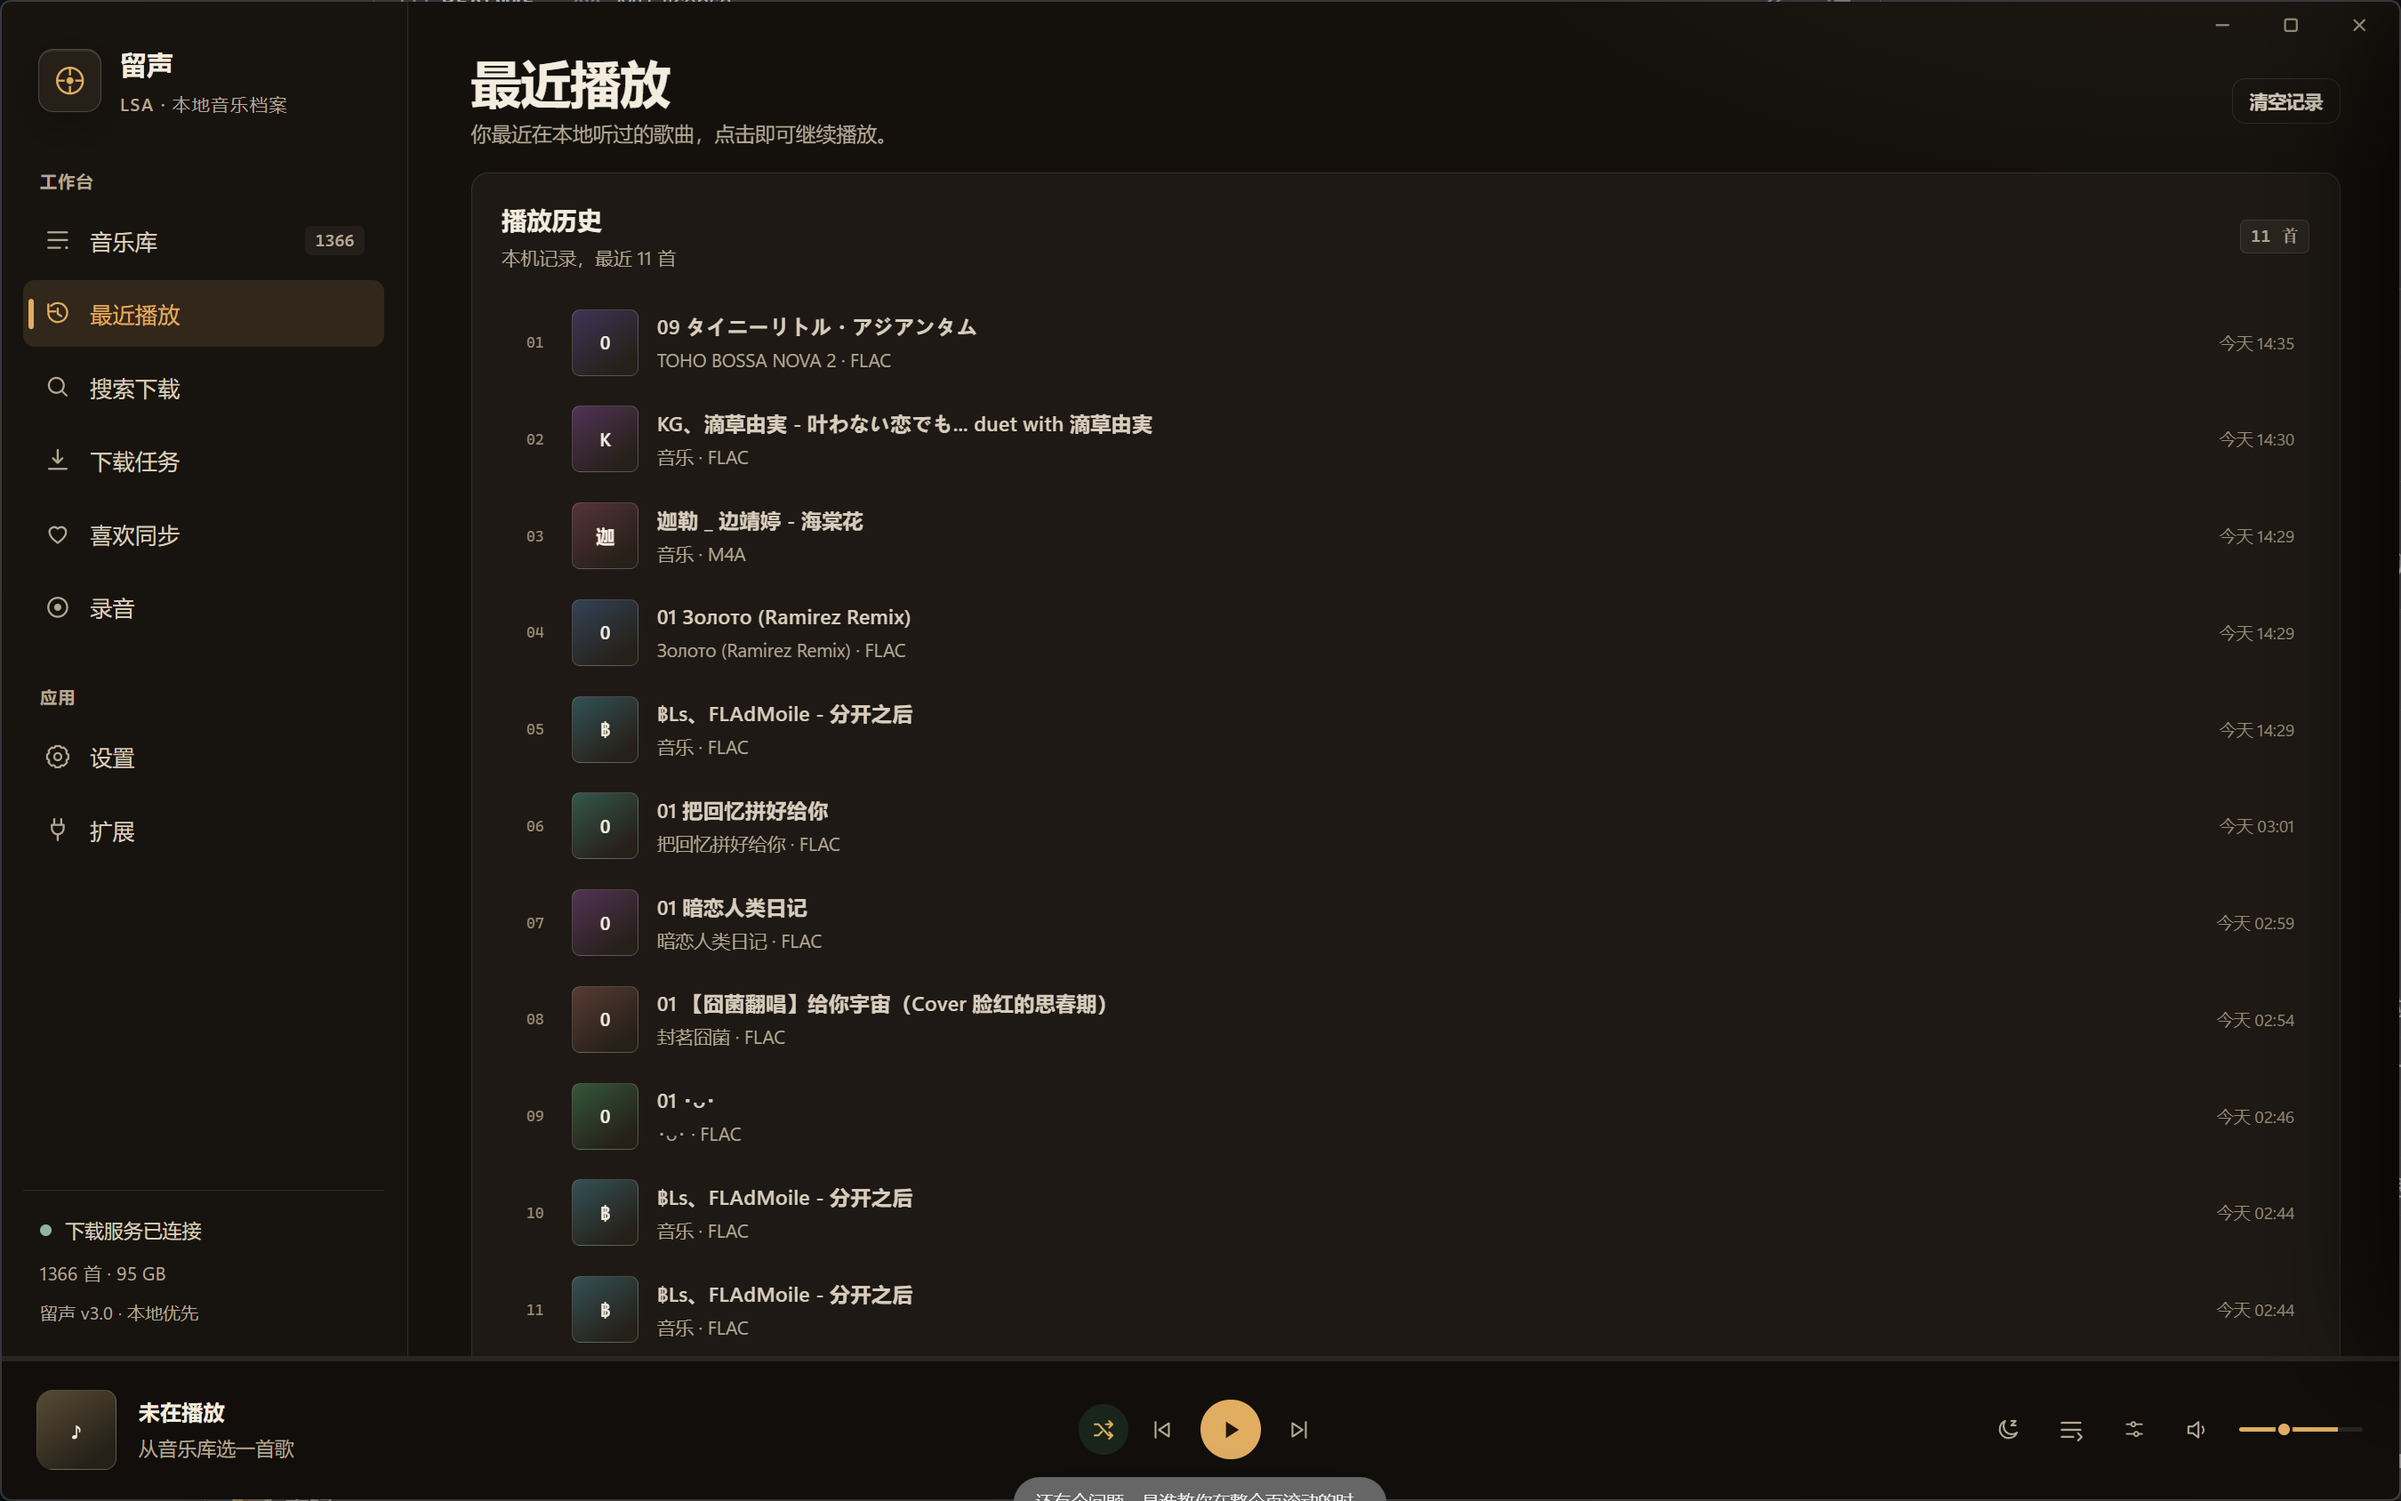
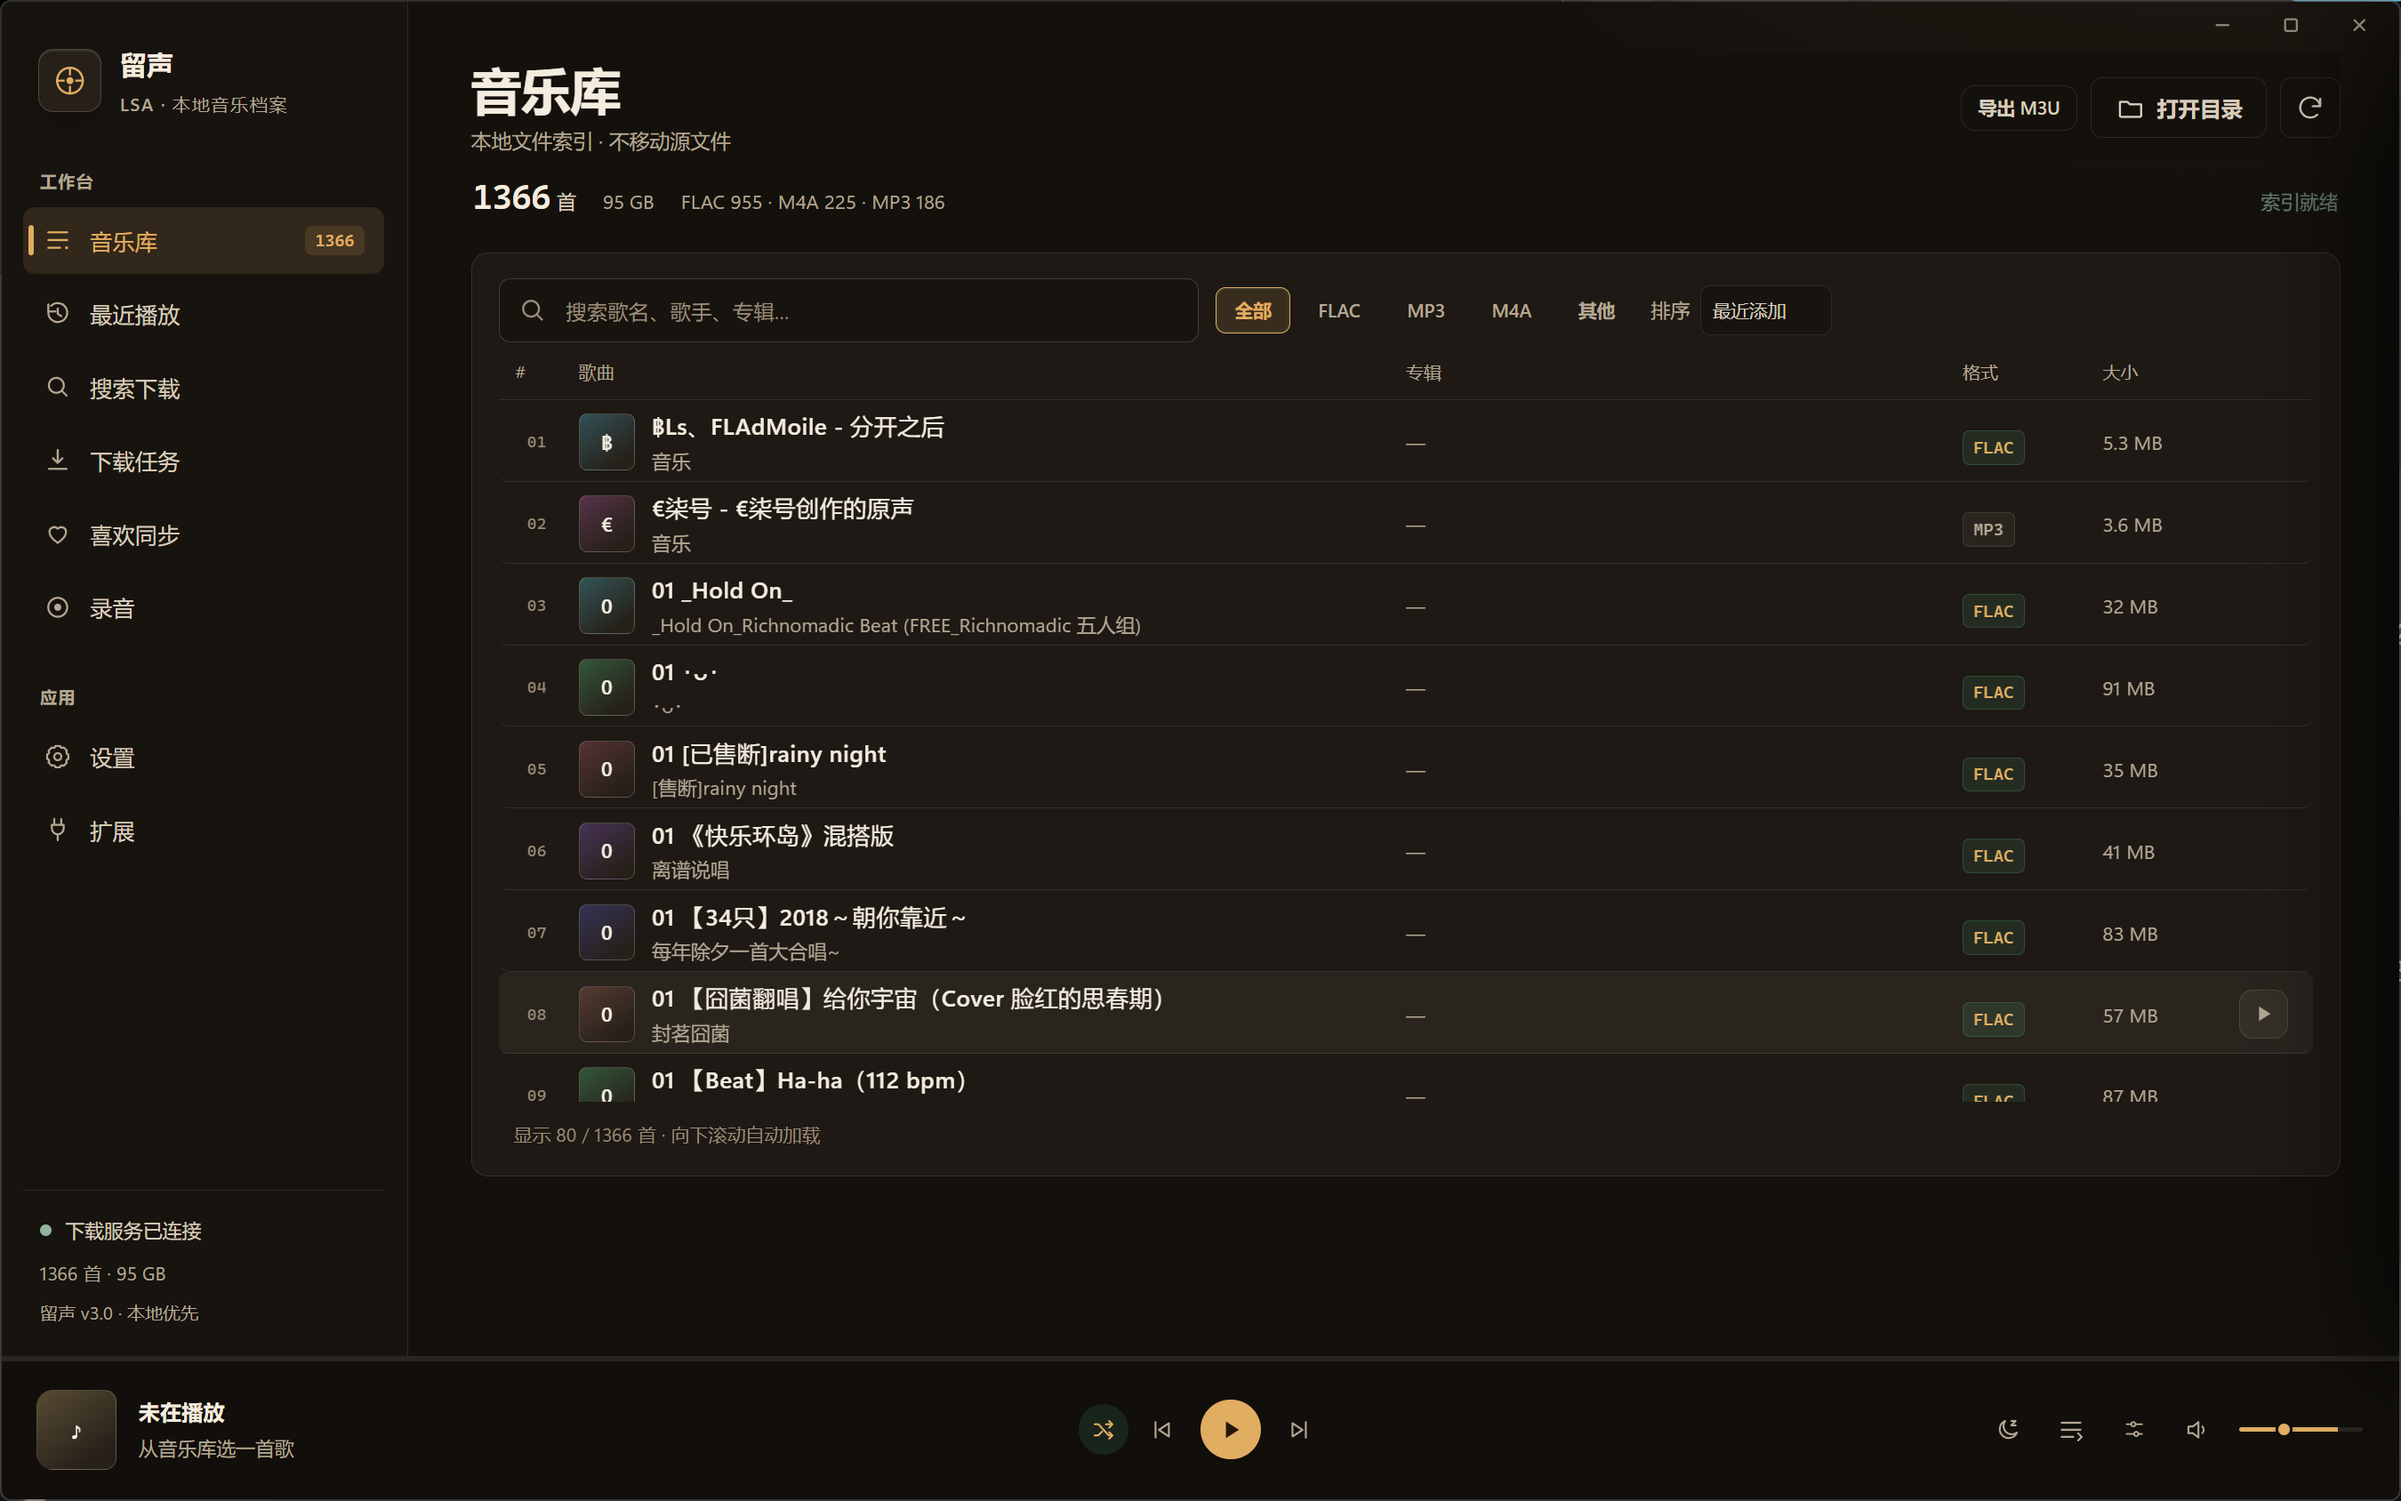
build: electron mac/win artifacts

diff --git a/ui/app.css b/ui/app.css
@@ -1,4 +1,4 @@
-:root {
+:root {
   --bg: #080a0d;
   --bg-2: #0c0f14;
   --surface: #11161d;
@@ -2401,32 +2401,32 @@ summary:focus-visible { outline: 2px solid var(--ui-accent, var(--accent)); outl
 }
 
 /* Scrollbars are transient: no permanent rails in panels, modals or lists. */
-:where(.main, .sidebar, .account-card, .fx-body, .queue-list, .lyrics-list, .search-results, .settings-main) {
+:where(.main, .sidebar, .account-card, .fx-body, .queue-list, .lyrics-list, .lib-list, .search-results, .settings-main) {
   scrollbar-width: none;
 }
-:where(.main, .sidebar, .account-card, .fx-body, .queue-list, .lyrics-list, .search-results, .settings-main)::-webkit-scrollbar {
+:where(.main, .sidebar, .account-card, .fx-body, .queue-list, .lyrics-list, .lib-list, .search-results, .settings-main)::-webkit-scrollbar {
   width: 0;
   height: 0;
 }
-:where(.main, .sidebar, .account-card, .fx-body, .queue-list, .lyrics-list, .search-results, .settings-main).is-scrolling {
+:where(.main, .sidebar, .account-card, .fx-body, .queue-list, .lyrics-list, .lib-list, .search-results, .settings-main).is-scrolling {
   scrollbar-width: thin;
 }
-:where(.main, .sidebar, .account-card, .fx-body, .queue-list, .lyrics-list, .search-results, .settings-main).is-scrolling::-webkit-scrollbar {
+:where(.main, .sidebar, .account-card, .fx-body, .queue-list, .lyrics-list, .lib-list, .search-results, .settings-main).is-scrolling::-webkit-scrollbar {
   width: 6px;
   height: 6px;
 }
-:where(.main, .sidebar, .account-card, .fx-body, .queue-list, .lyrics-list, .search-results, .settings-main).is-scrolling::-webkit-scrollbar-thumb {
+:where(.main, .sidebar, .account-card, .fx-body, .queue-list, .lyrics-list, .lib-list, .search-results, .settings-main).is-scrolling::-webkit-scrollbar-thumb {
   background: color-mix(in srgb, var(--ui-muted, var(--muted)) 48%, transparent);
   border-radius: 99px;
 }
 
 /* Native scroll rails are never shown. A slim indicator appears only while scrolling. */
-:where(.main, .sidebar, .account-card, .fx-body, .queue-list, .lyrics-list, .search-results, .settings-main)::-webkit-scrollbar {
+:where(.main, .sidebar, .account-card, .fx-body, .queue-list, .lyrics-list, .lib-list, .search-results, .settings-main)::-webkit-scrollbar {
   display: none !important;
   width: 0 !important;
   height: 0 !important;
 }
-:where(.main, .sidebar, .account-card, .fx-body, .queue-list, .lyrics-list, .search-results, .settings-main) {
+:where(.main, .sidebar, .account-card, .fx-body, .queue-list, .lyrics-list, .lib-list, .search-results, .settings-main) {
   scrollbar-width: none !important;
   -ms-overflow-style: none;
 }
@@ -2499,3 +2499,42 @@ summary:focus-visible { outline: 2px solid var(--ui-accent, var(--accent)); outl
 }
 .port-input:hover { border-color: var(--line-strong); }
 .port-input:focus-visible { outline: 2px solid var(--accent); outline-offset: 1px; }
+
+/* Library is a fixed header + one scrolling list, not a whole-page scroll. */
+#page-library.active {
+  display: flex;
+  flex-direction: column;
+  height: 100%;
+  min-height: 0;
+  overflow: hidden;
+}
+#page-library .page-head,
+#page-library .library-summary {
+  flex: none;
+}
+#page-library .library-panel {
+  flex: 1;
+  min-height: 0;
+  display: flex;
+  flex-direction: column;
+}
+#page-library .toolbar,
+#page-library .table-head,
+#page-library .list-foot {
+  flex: none;
+}
+#page-library .lib-list {
+  flex: 1;
+  min-height: 0;
+  overflow-y: auto;
+  overscroll-behavior: contain;
+}
+/* Other pages keep the title visible while their content scrolls. */
+.page > .page-head {
+  position: sticky;
+  top: 0;
+  z-index: 20;
+  background: var(--ui-bg, var(--bg));
+  padding-top: 4px;
+}
+

diff --git a/src/main/index.js b/src/main/index.js
@@ -1,4 +1,4 @@
-const { app, BrowserWindow, ipcMain, dialog, shell, desktopCapturer, session } = require('electron')
+const { app, BrowserWindow, ipcMain, dialog, shell, desktopCapturer, session, Tray, Menu, nativeImage } = require('electron')
 const fs = require('node:fs')
 const fsp = require('node:fs/promises')
 const http = require('node:http')
@@ -13,6 +13,13 @@ const { AccountService } = require('./services/account')
 
 const isMac = process.platform === 'darwin'
 app.setAppUserModelId('com.local-sound-archive.app')
+
+// One process per user session. A second launch should wake the existing window.
+const singleInstance = app.requestSingleInstanceLock()
+if (!singleInstance) app.exit(0)
+
+let tray = null
+let forceQuit = false
 
 const AUDIO_EXTENSIONS = new Set(['.flac', '.mp3', '.m4a', '.aac', '.wav', '.ogg', '.opus', '.wma'])
 const APP_ROOT = path.join(__dirname, '..', '..')
@@ -870,6 +877,30 @@ async function handleCommand(cmd, args) {
   }
 }
 
+function showMainWindow() {
+  if (!mainWindow || mainWindow.isDestroyed()) {
+    createWindow().catch((error) => logStart('recreate-window:error ' + error.stack))
+    return
+  }
+  if (mainWindow.isMinimized()) mainWindow.restore()
+  mainWindow.show()
+  mainWindow.focus()
+}
+
+function createTray() {
+  if (tray) return
+  const icon = nativeImage.createFromPath(path.join(APP_ROOT, 'build', 'icon.png'))
+  tray = new Tray(icon)
+  tray.setToolTip('留声 · LSA')
+  tray.setContextMenu(Menu.buildFromTemplate([
+    { label: '显示留声', click: showMainWindow },
+    { label: '隐藏到托盘', click: () => { if (mainWindow) mainWindow.hide() } },
+    { type: 'separator' },
+    { label: '退出留声', click: () => { forceQuit = true; app.quit() } },
+  ]))
+  tray.on('double-click', showMainWindow)
+}
+
 async function createWindow() {
   logStart('createWindow:start')
   mainWindow = new BrowserWindow({
@@ -890,6 +921,14 @@ async function createWindow() {
       sandbox: true,
     },
   })
+
+  mainWindow.on('close', (event) => {
+    if (!isMac && !forceQuit) {
+      event.preventDefault()
+      mainWindow.hide()
+    }
+  })
+  mainWindow.on('closed', () => { mainWindow = null })
 
   mainWindow.once('ready-to-show', () => { logStart('ready-to-show'); mainWindow.show() })
   try { await mainWindow.loadFile(path.join(RENDERER, 'index.html')); logStart('loadFile:ok') } catch (error) { logStart('loadFile:error ' + error.stack) ; throw error }
@@ -981,22 +1020,25 @@ app.whenReady().then(async () => {
   await loadAiConfig()
   await startAudioServer()
   await createWindow()
+  createTray()
   if (aiConfig.enabled) await startAiServer()
-  app.on('activate', () => {
-    if (BrowserWindow.getAllWindows().length === 0) createWindow()
-  })
+  app.on('activate', showMainWindow)
 })
+
+app.on('second-instance', showMainWindow)
 
 app.on('window-all-closed', () => {
   if (!isMac) app.quit()
 })
 
 app.on('before-quit', () => {
+  forceQuit = true
   stopAiServer()
   if (audioServer) {
     try { audioServer.close() } catch { }
   }
 })
+
 
 
 

diff --git a/ui/app.js b/ui/app.js
@@ -474,6 +474,8 @@ function showPage(name) {
   if (sel) sel.removeAllRanges();
   const main = $('#main');
   if (main) main.scrollTop = 0;
+  const libList = $('#libList');
+  if (libList) libList.scrollTop = 0;
   closeInfo();
   if (name === 'search') setTimeout(() => $('#searchInput').focus(), 40);
   if (name === 'record') loadRecordings();
@@ -668,11 +670,12 @@ function loadMoreLibrary() {
   renderLibrary();
   requestAnimationFrame(() => { libAutoLoading = false; });
 }
-const libScrollRoot = document.querySelector('.main');
-const libFootObserver = new IntersectionObserver((entries) => {
-  if (entries.some((entry) => entry.isIntersecting)) loadMoreLibrary();
-}, { root: libScrollRoot, rootMargin: '0px 0px 520px 0px', threshold: 0 });
-libFootObserver.observe($('#libFoot'));
+const libScrollRoot = document.querySelector('#libList');
+if (libScrollRoot) {
+  libScrollRoot.addEventListener('scroll', () => {
+    if (libScrollRoot.scrollTop + libScrollRoot.clientHeight >= libScrollRoot.scrollHeight - 520) loadMoreLibrary();
+  }, { passive: true });
+}
 function skeletonRows(n) {
   return Array.from({ length: n }, () => '<div class="skeleton-row"><div class="sk sk-art"></div><div class="sk-lines"><div class="sk sk-line w60"></div><div class="sk sk-line w30"></div></div><div class="sk sk-line" style="width:18%"></div><div class="sk sk-line" style="width:9%"></div></div>').join('');
 }
@@ -3001,6 +3004,7 @@ document.addEventListener('keydown', (e) => {
   setInterval(async () => { await pollRecord(); renderRecord(); }, 1000);
   renderRecord();
 })();
+
 
 
 

diff --git a/ui/shell.js b/ui/shell.js
@@ -1,4 +1,4 @@
-const desktop = window.lsaDesktop
+const desktop = window.lsaDesktop
 
 if (desktop) {
   document.body.classList.add('platform-' + desktop.platform)
@@ -36,7 +36,7 @@ if (drag && desktop) {
 }
 // Hide scrollbars until the user actually scrolls a panel.
 (() => {
-  const selector = '.main,.sidebar,.account-card,.fx-body,.queue-list,.lyrics-list,.search-results,.settings-main'
+  const selector = '.main,.sidebar,.account-card,.fx-body,.queue-list,.lyrics-list,.lib-list,.search-results,.settings-main'
   const timers = new WeakMap()
   document.addEventListener('scroll', (event) => {
     const target = event.target
@@ -118,7 +118,7 @@ if (recordHost && recordHost.addEventListener) {
 }
 /* Overlay scroll indicator: no native rails, only motion feedback. */
 (() => {
-  const selector = '.main,.sidebar,.account-card,.fx-body,.queue-list,.lyrics-list,.search-results,.settings-main'
+  const selector = '.main,.sidebar,.account-card,.fx-body,.queue-list,.lyrics-list,.lib-list,.search-results,.settings-main'
   const thumb = document.createElement('div')
   thumb.id = 'lsa-scroll-thumb'
   document.body.appendChild(thumb)
@@ -161,3 +161,4 @@ if (recordHost && recordHost.addEventListener) {
     else hide()
   }, { passive: true })
 })()
+

diff --git a/ui/index.html b/ui/index.html
@@ -4,7 +4,7 @@
 <meta charset="utf-8">
 <meta name="viewport" content="width=device-width, initial-scale=1">
 <title>留声 · LSA</title>
-<link rel="stylesheet" href="app.css?v=20261031-23">
+<link rel="stylesheet" href="app.css?v=20261031-25">
 </head>
 <body class="booting">
 <div class="window-chrome" aria-hidden="false">
@@ -546,10 +546,12 @@
   </div>
 </div>
 <script src="i18n.js?v=20261031-16"></script>
-<script src="shell.js?v=4"></script>
-<script src="app.js?v=20261031-21"></script>
+<script src="shell.js?v=5"></script>
+<script src="app.js?v=20261031-22"></script>
 </body>
 </html>
+
+
 
 
 

diff --git a/README.md b/README.md
@@ -1,4 +1,4 @@
-# LSA · 留声
+# LSA · 留声
 
 跨平台、本地优先的音乐归档与播放器。  
 A local-first music archive and player for Windows and macOS.
@@ -15,7 +15,7 @@ Electron 版本是原 Windows 客户端的跨平台宿主：保留原有 HTML/CS
 
 - 本地音乐库扫描与 SQLite 索引；
 - FLAC / MP3 / M4A / 歌词播放；
-- 自定义无边框窗口与完整窗口控制；
+- 自定义无边框窗口与完整窗口控制；\n- 单实例唤醒与 Windows 托盘后台；
 - 本地 HTTP 音频服务，支持 Range；
 - 搜索、下载队列与任务操作；
 - 网易云 / QQ 扫码登录，汽水客户端 Cookie 读取；
@@ -113,3 +113,4 @@ docs/                   架构、工作流、ADR 与截图
 ## License
 
 MIT
+
